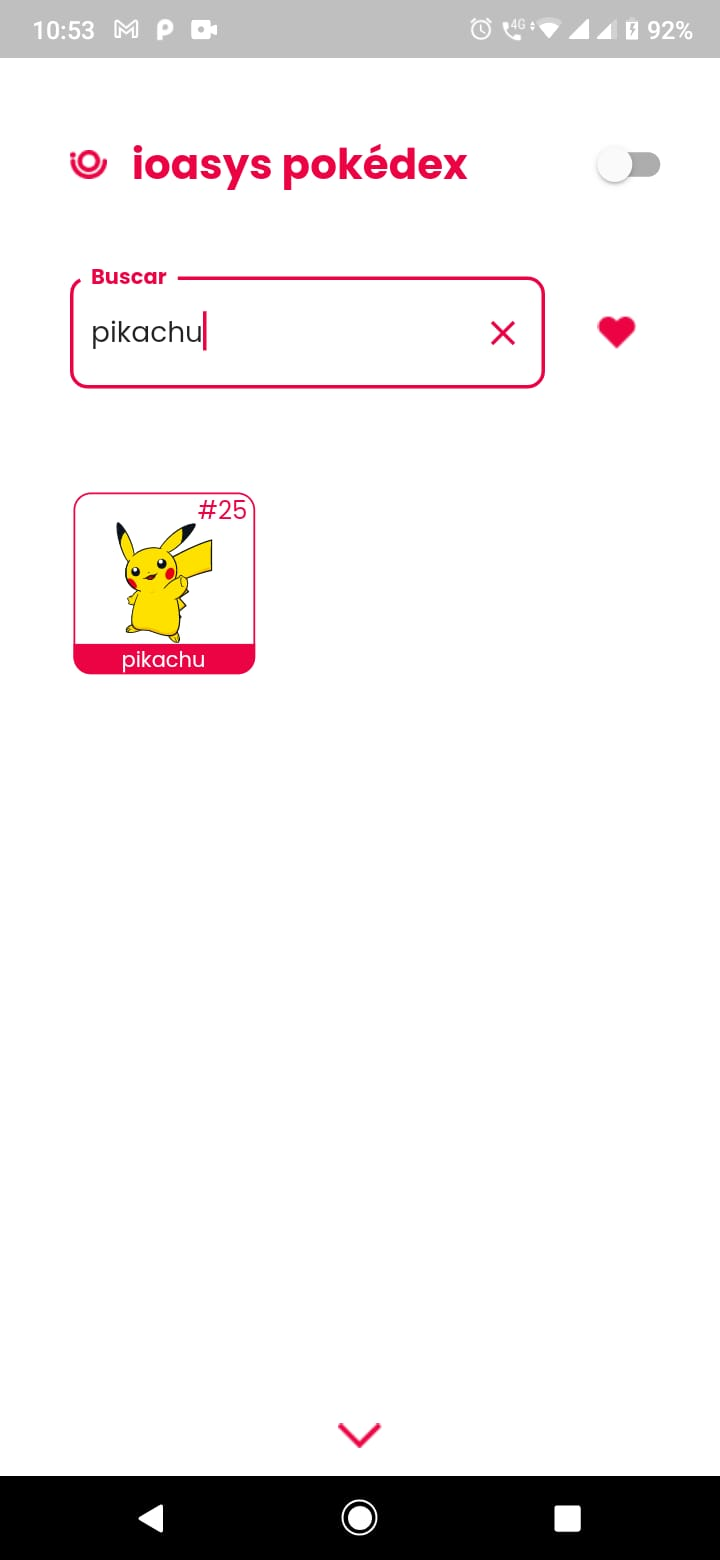
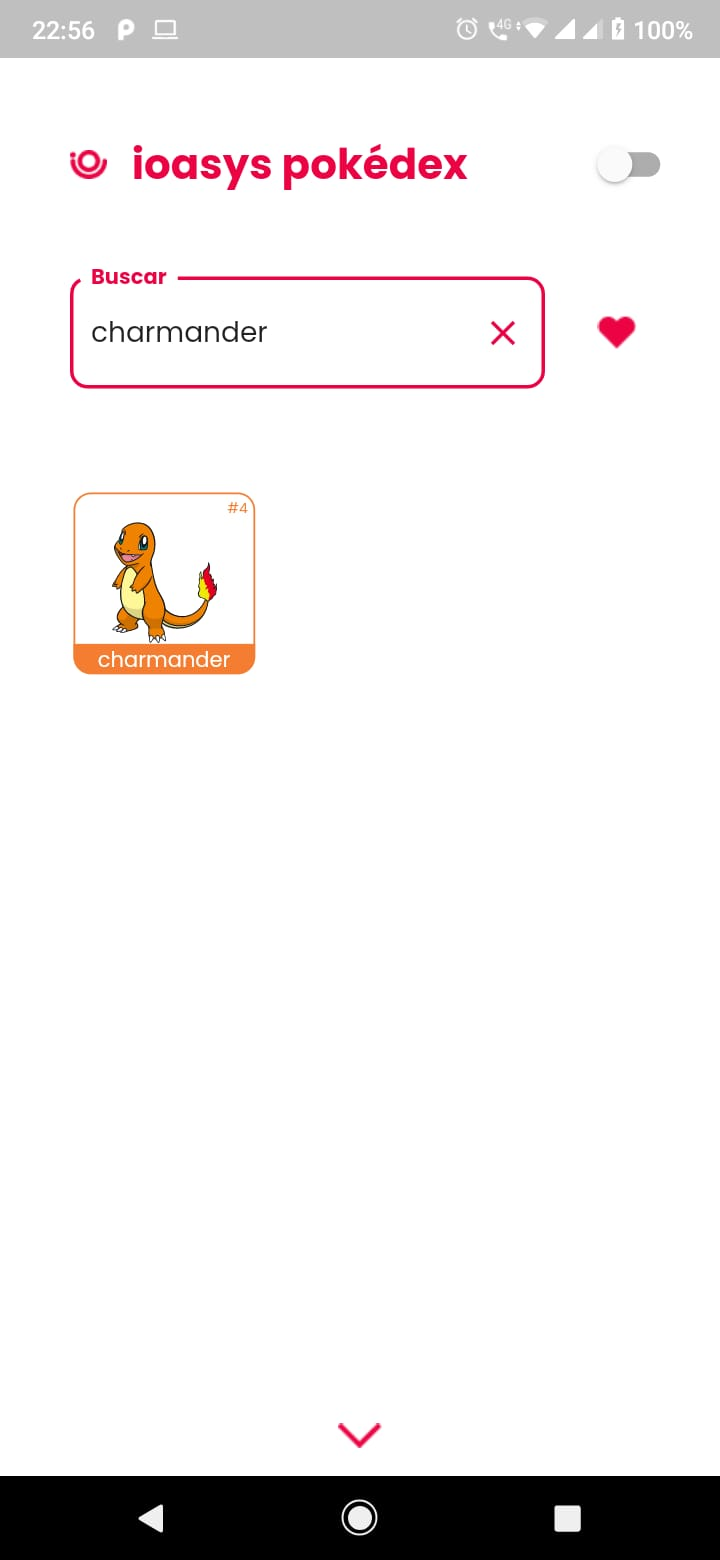
add method getPokemonColor in pokemon_model.dart

diff --git a/lib/modules/pokemon/domain/model/pokemon/pokemon_model.dart b/lib/modules/pokemon/domain/model/pokemon/pokemon_model.dart
@@ -1,6 +1,8 @@
 import 'package:equatable/equatable.dart';
 import 'package:flutter/material.dart';
 
+import '../../../../../pokedex_constants/pokedex_constants_colors.dart';
+import '../../../constants/pokemon_constants_colors.dart';
 import 'stat_model.dart';
 
 class PokemonModel extends Equatable {
@@ -13,7 +15,7 @@ class PokemonModel extends Equatable {
     required this.typeList,
     required this.weight,
     required this.image,
-    required this.color,
+    required this.colorNameByFirstType,
     required this.description,
     this.isFavorite = false,
   });
@@ -26,7 +28,7 @@ class PokemonModel extends Equatable {
   final List<String> typeList;
   final int weight;
   final String image;
-  final Color color;
+  final String colorNameByFirstType;
   final String description;
   bool isFavorite;
 
@@ -40,7 +42,65 @@ class PokemonModel extends Equatable {
         typeList,
         weight,
         image,
-        color,
+        colorNameByFirstType,
         description,
       ];
+
+  Color getPokemonColor(String pokemonType) {
+    if (pokemonType.contains('rock')) {
+      return PokemonConstantsColors.rock;
+    }
+    if (pokemonType.contains('ghost')) {
+      return PokemonConstantsColors.ghost;
+    }
+    if (pokemonType.contains('steel')) {
+      return PokemonConstantsColors.steel;
+    }
+    if (pokemonType.contains('water')) {
+      return PokemonConstantsColors.water;
+    }
+    if (pokemonType.contains('grass')) {
+      return PokemonConstantsColors.grass;
+    }
+    if (pokemonType.contains('psychic')) {
+      return PokemonConstantsColors.psychic;
+    }
+    if (pokemonType.contains('ice')) {
+      return PokemonConstantsColors.ice;
+    }
+    if (pokemonType.contains('dark')) {
+      return PokemonConstantsColors.dark;
+    }
+    if (pokemonType.contains('fairy')) {
+      return PokemonConstantsColors.fairy;
+    }
+    if (pokemonType.contains('normal')) {
+      return PokemonConstantsColors.normal;
+    }
+    if (pokemonType.contains('fighting')) {
+      return PokemonConstantsColors.fighting;
+    }
+    if (pokemonType.contains('flying')) {
+      return PokemonConstantsColors.flying;
+    }
+    if (pokemonType.contains('poison')) {
+      return PokemonConstantsColors.poison;
+    }
+    if (pokemonType.contains('ground')) {
+      return PokemonConstantsColors.ground;
+    }
+    if (pokemonType.contains('bug')) {
+      return PokemonConstantsColors.bug;
+    }
+    if (pokemonType.contains('fire')) {
+      return PokemonConstantsColors.fire;
+    }
+    if (pokemonType.contains('electric')) {
+      return PokemonConstantsColors.electric;
+    }
+    if (pokemonType.contains('dragon')) {
+      return PokemonConstantsColors.dragon;
+    }
+    return PokedexConstantsColors.primaryColor;
+  }
 }

diff --git a/lib/modules/pokemon/presentation/common/pokemon_list_widget.dart b/lib/modules/pokemon/presentation/common/pokemon_list_widget.dart
@@ -48,8 +48,9 @@ class PokemonListWidget extends StatelessWidget {
                       elevation: 0,
                       margin: const EdgeInsets.all(2),
                       shape: RoundedRectangleBorder(
-                        side: const BorderSide(
-                          color: PokedexConstantsColors.primaryColor,
+                        side: BorderSide(
+                          color: pokemon
+                              .getPokemonColor(pokemon.colorNameByFirstType),
                           width: 1,
                         ),
                         borderRadius: BorderRadius.circular(10),
@@ -63,8 +64,10 @@ class PokemonListWidget extends StatelessWidget {
                                 Text(
                                   '${S.of(context).hashtag}'
                                   '${pokemon.id.toString()}',
-                                  style: const TextStyle(
-                                    color: PokedexConstantsColors.primaryColor,
+                                  style: TextStyle(
+                                    color: pokemon.getPokemonColor(
+                                        pokemon.colorNameByFirstType),
+                                    fontSize: 8,
                                   ),
                                 ),
                                 const SizedBox(
@@ -84,9 +87,10 @@ class PokemonListWidget extends StatelessWidget {
                           ),
                           Expanded(
                             child: Container(
-                              decoration: const BoxDecoration(
-                                color: PokedexConstantsColors.primaryColor,
-                                borderRadius: BorderRadius.only(
+                              decoration: BoxDecoration(
+                                color: pokemon.getPokemonColor(
+                                    pokemon.colorNameByFirstType),
+                                borderRadius: const BorderRadius.only(
                                   bottomLeft: Radius.circular(10),
                                   bottomRight: Radius.circular(10),
                                 ),

diff --git a/lib/modules/pokemon/presentation/common/favorite_pokemon_list_widget.dart b/lib/modules/pokemon/presentation/common/favorite_pokemon_list_widget.dart
@@ -37,8 +37,9 @@ class FavoritePokemonListWidget extends StatelessWidget {
                     elevation: 0,
                     margin: const EdgeInsets.all(2),
                     shape: RoundedRectangleBorder(
-                      side: const BorderSide(
-                        color: PokedexConstantsColors.primaryColor,
+                      side: BorderSide(
+                        color: pokemon
+                            .getPokemonColor(pokemon.colorNameByFirstType),
                         width: 1,
                       ),
                       borderRadius: BorderRadius.circular(10),
@@ -52,8 +53,10 @@ class FavoritePokemonListWidget extends StatelessWidget {
                               Text(
                                 '${S.of(context).hashtag}'
                                 '${pokemon.id.toString()}',
-                                style: const TextStyle(
-                                  color: PokedexConstantsColors.primaryColor,
+                                style: TextStyle(
+                                  color: pokemon.getPokemonColor(
+                                      pokemon.colorNameByFirstType),
+                                  fontSize: 8,
                                 ),
                               ),
                               const SizedBox(
@@ -73,9 +76,10 @@ class FavoritePokemonListWidget extends StatelessWidget {
                         ),
                         Expanded(
                           child: Container(
-                            decoration: const BoxDecoration(
-                              color: PokedexConstantsColors.primaryColor,
-                              borderRadius: BorderRadius.only(
+                            decoration: BoxDecoration(
+                              color: pokemon.getPokemonColor(
+                                  pokemon.colorNameByFirstType),
+                              borderRadius: const BorderRadius.only(
                                 bottomLeft: Radius.circular(10),
                                 bottomRight: Radius.circular(10),
                               ),

diff --git a/test/modules/pokemon/data/repository/pokemon_repository_impl_test.dart b/test/modules/pokemon/data/repository/pokemon_repository_impl_test.dart
@@ -1,4 +1,3 @@
-import 'package:flutter/material.dart';
 import 'package:flutter_test/flutter_test.dart';
 import 'package:mockito/annotations.dart';
 import 'package:mockito/mockito.dart';
@@ -132,7 +131,7 @@ PokemonModel _getSuccessfulPokemonModelMock() => PokemonModel(
       weight: 10,
       image:
           'https://unpkg.com/pokeapi-sprites@2.0.2/sprites/pokemon/other/dream-world/1.svg',
-      color: Colors.white,
+      colorNameByFirstType: 'color',
       description: 'description 1',
     );
 
@@ -150,7 +149,7 @@ List<PokemonModel> _getSuccessfulPokemonModelListMock() => <PokemonModel>[
         weight: 10,
         image:
             'https://unpkg.com/pokeapi-sprites@2.0.2/sprites/pokemon/other/dream-world/1.svg',
-        color: Colors.white,
+        colorNameByFirstType: 'color',
         description: 'description 1',
       ),
       PokemonModel(
@@ -166,7 +165,7 @@ List<PokemonModel> _getSuccessfulPokemonModelListMock() => <PokemonModel>[
         weight: 20,
         image:
             'https://unpkg.com/pokeapi-sprites@2.0.2/sprites/pokemon/other/dream-world/2.svg',
-        color: Colors.white,
+        colorNameByFirstType: 'colore',
         description: 'description 1',
       ),
     ];

diff --git a/test/modules/pokemon/presentation/pokemon_list/pokemon_list_store_test.dart b/test/modules/pokemon/presentation/pokemon_list/pokemon_list_store_test.dart
@@ -1,4 +1,3 @@
-import 'package:flutter/material.dart';
 import 'package:flutter_test/flutter_test.dart';
 import 'package:mockito/annotations.dart';
 import 'package:mockito/mockito.dart';
@@ -76,7 +75,7 @@ List<PokemonModel> _getSuccessfulPokemonModelListMock() => <PokemonModel>[
         weight: 10,
         image:
             'https://unpkg.com/pokeapi-sprites@2.0.2/sprites/pokemon/other/dream-world/1.svg',
-        color: Colors.white,
+        colorNameByFirstType: 'color',
         description: 'description 1',
       ),
       PokemonModel(
@@ -92,7 +91,7 @@ List<PokemonModel> _getSuccessfulPokemonModelListMock() => <PokemonModel>[
         weight: 20,
         image:
             'https://unpkg.com/pokeapi-sprites@2.0.2/sprites/pokemon/other/dream-world/2.svg',
-        color: Colors.white,
+        colorNameByFirstType: 'color',
         description: 'description 2',
       ),
     ];

diff --git a/test/modules/pokemon/presentation/favorite_pokemon_list/favorite_pokemon_list_store_test.dart b/test/modules/pokemon/presentation/favorite_pokemon_list/favorite_pokemon_list_store_test.dart
@@ -1,4 +1,3 @@
-import 'package:flutter/material.dart';
 import 'package:flutter_test/flutter_test.dart';
 import 'package:mockito/annotations.dart';
 import 'package:mockito/mockito.dart';
@@ -58,7 +57,7 @@ List<PokemonModel> _getSuccessfulFavoritePokemonModelListMock() =>
         weight: 10,
         image:
             'https://unpkg.com/pokeapi-sprites@2.0.2/sprites/pokemon/other/dream-world/1.svg',
-        color: Colors.white,
+        colorNameByFirstType: 'color',
         description: 'description 1',
       ),
       PokemonModel(
@@ -74,7 +73,7 @@ List<PokemonModel> _getSuccessfulFavoritePokemonModelListMock() =>
         weight: 20,
         image:
             'https://unpkg.com/pokeapi-sprites@2.0.2/sprites/pokemon/other/dream-world/2.svg',
-        color: Colors.white,
+        colorNameByFirstType: 'color',
         description: 'description 2',
       ),
     ];

diff --git a/lib/modules/pokemon/data/mapper/remote_to_model.dart b/lib/modules/pokemon/data/mapper/remote_to_model.dart
@@ -1,5 +1,3 @@
-import 'package:pokedex_app/modules/pokemon/utils/get_pokemon_color.dart';
-
 import '../../domain/model/pokemon/pokemon_model.dart';
 import '../../domain/model/pokemon/stat_model.dart';
 import '../remote/model/pokemon/details/pokemon_response.dart';
@@ -29,6 +27,6 @@ PokemonModel convertToPokemonModelList(
       weight: pokemonResponse.weight ?? -1,
       image:
           'https://unpkg.com/pokeapi-sprites@2.0.2/sprites/pokemon/other/dream-world/${pokemonResponse.id}.svg',
-      color: getPokemonColor(pokemonResponse.types?[0].type?.name ?? ' - '),
+      colorNameByFirstType: pokemonResponse.types?[0].type?.name ?? ' - ',
       description: specieResponse.descriptionList?[9].description ?? ' - ',
     );

diff --git a/test/modules/pokemon/domain/use_case/get_pokemon_list_use_case_impl_test.dart b/test/modules/pokemon/domain/use_case/get_pokemon_list_use_case_impl_test.dart
@@ -48,7 +48,7 @@ List<PokemonModel> _getSuccessfulPokemonModelListMock() => <PokemonModel>[
         weight: 10,
         image:
             'https://unpkg.com/pokeapi-sprites@2.0.2/sprites/pokemon/other/dream-world/1.svg',
-        color: Colors.white,
+        colorNameByFirstType: 'color',
         description: 'description 1',
       ),
       PokemonModel(
@@ -64,7 +64,7 @@ List<PokemonModel> _getSuccessfulPokemonModelListMock() => <PokemonModel>[
         weight: 20,
         image:
             'https://unpkg.com/pokeapi-sprites@2.0.2/sprites/pokemon/other/dream-world/2.svg',
-        color: Colors.white,
+        colorNameByFirstType: 'color',
         description: 'description 2',
       ),
     ];

diff --git a/lib/modules/pokemon/data/mapper/cache_to_model.dart b/lib/modules/pokemon/data/mapper/cache_to_model.dart
@@ -14,7 +14,7 @@ extension PokemonCacheToPokemonModel on PokemonCache {
         typeList: typeList,
         weight: weight,
         image: image,
-        color: color,
+        colorNameByFirstType: colorNameByFirstType,
         description: description,
       );
 }
@@ -32,7 +32,7 @@ extension PokemonCacheListToPokemonModelList on List<PokemonCache> {
               .toList(),
           weight: item.weight,
           abilityList: item.abilityList,
-          color: item.color,
+          colorNameByFirstType: item.colorNameByFirstType,
           description: item.description,
         ),
       ).toList();

diff --git a/lib/modules/pokemon/data/cache/model/pokemon_cache.g.dart b/lib/modules/pokemon/data/cache/model/pokemon_cache.g.dart
@@ -25,7 +25,7 @@ class PokemonCacheAdapter extends TypeAdapter<PokemonCache> {
       typeList: (fields[5] as List).cast<String>(),
       weight: fields[6] as int,
       image: fields[7] as String,
-      color: fields[8] as Color,
+      colorNameByFirstType: fields[8] as String,
       description: fields[9] as String,
     );
   }
@@ -51,7 +51,7 @@ class PokemonCacheAdapter extends TypeAdapter<PokemonCache> {
       ..writeByte(7)
       ..write(obj.image)
       ..writeByte(8)
-      ..write(obj.color)
+      ..write(obj.colorNameByFirstType)
       ..writeByte(9)
       ..write(obj.description);
   }

diff --git a/lib/modules/pokemon/data/cache/model/pokemon_cache.dart b/lib/modules/pokemon/data/cache/model/pokemon_cache.dart
@@ -1,4 +1,3 @@
-import 'package:flutter/material.dart';
 import 'package:hive/hive.dart';
 
 import 'stat_cache.dart';
@@ -16,7 +15,7 @@ class PokemonCache {
     required this.typeList,
     required this.weight,
     required this.image,
-    required this.color,
+    required this.colorNameByFirstType,
     required this.description,
   });
 
@@ -37,7 +36,7 @@ class PokemonCache {
   @HiveField(7)
   final String image;
   @HiveField(8)
-  final Color color;
+  final String colorNameByFirstType;
   @HiveField(9)
   final String description;
 }

diff --git a/lib/modules/pokemon/presentation/pokemon_details/pokemon_details_screen.dart b/lib/modules/pokemon/presentation/pokemon_details/pokemon_details_screen.dart
@@ -38,7 +38,8 @@ class _PokemonDetailsScreenState
 
   @override
   Widget build(BuildContext context) => Scaffold(
-        backgroundColor: widget.pokemon.color,
+        backgroundColor:
+            widget.pokemon.getPokemonColor(widget.pokemon.colorNameByFirstType),
         appBar: AppBar(
           elevation: 0,
           title: Row(
